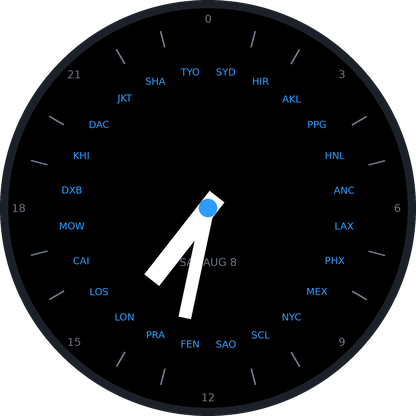
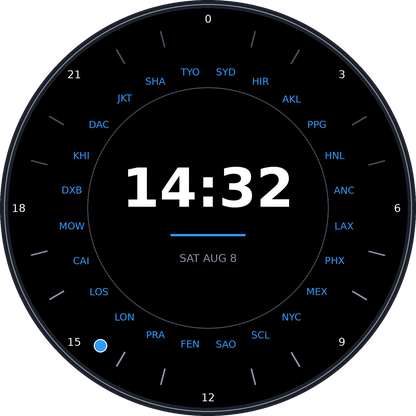
Swap analog hands for a digital center readout, polish the dial
Replace the hour/minute hands with a bold digital HH:MM + date in the
center, framed by a thin sub-dial ring. A small accent "now" marker dot
sits on the hour ring at the current local-time angle, tying the digital
readout back to the worldtimer bezel without drawing anything hand-like.

Added polish: a thin bezel line around the rim, and a dimmer tick color
for night-side hours (18:00-06:00) vs daytime as a rough day/night cue,
via a new per-theme :dim tone in Themes.mc.

diff --git a/ventures/garmin-world-traveler-watchface/README.md b/ventures/garmin-world-traveler-watchface/README.md
@@ -3,8 +3,9 @@
 A worldtimer-bezel watch face, in the style of classic GMT/world-time
 travel watches: a fixed 24-hour ring runs around the rim, and the 24
 major cities of the world — one per standard time zone — sit at whatever
-position on that ring matches their current local hour. Analog hands read
-your own local time off the same ring.
+position on that ring matches their current local hour. Your own local
+time is digital, big and centered, framed by a sub-dial ring; a small
+accent marker on the outer ring ties it back to the world-time bezel.
 
 ![Design mockup](docs/design-mockup.png)
 
@@ -23,15 +24,20 @@ simulator screenshots.)*
   city's *own current local hour* on the fixed ring — so as the day
   progresses, the whole ring of cities visually sweeps around together,
   the same way a real worldtimer watch bezel does.
-- Analog hour + minute hands, pivoting at the center, reading your local
-  time off that same 24-hour scale.
+- Big digital local time + date in the center, respecting the device's
+  12/24-hour preference, framed by a thin sub-dial ring.
+- A small accent "now" marker sitting directly on the hour ring at your
+  current local-time angle — reads the ring without drawing a hand.
+- A thin bezel line around the rim, and night-hours (18:00-06:00) ticks
+  tinted with a dimmer tone than daytime ticks, as a rough day/night cue.
 - Automatic, self-contained DST handling for zones that need it (US, EU,
   Australia, New Zealand) — no network access or bundled timezone database
   needed. Unlike a real mechanical worldtimer (which can only rotate one
   ring uniformly and drifts out of alignment during mixed DST periods),
   each city here is computed independently, so it "hops" a notch on its
   own DST transition day instead of throwing off any other city.
-- Four selectable color themes (Midnight, Aurora, Sand, Mono).
+- Four selectable color themes (Midnight, Aurora, Sand, Mono), each with
+  an accent/muted/dim tone triad.
 - Draws everything programmatically from screen dimensions, so one
   codebase adapts to round, semi-round and rectangular displays without
   per-device layout resources.
@@ -58,9 +64,9 @@ manifest.xml                    App metadata, target device list
 monkey.jungle                   Build configuration
 source/
   WorldTravelerApp.mc            App entry point
-  WorldTravelerView.mc            Radial ring + hands drawing logic
+  WorldTravelerView.mc            Radial ring + digital-center drawing logic
   CityData.mc                    24-zone catalog + timezone/DST math
-  Themes.mc                      Color themes
+  Themes.mc                      Color themes (accent/muted/dim per theme)
 resources/
   drawables/                     Launcher icon
   strings/                       App name + settings labels
@@ -83,12 +89,11 @@ variable — the whole set of labels moves together in the aggregate (all
 correct through individual DST transitions, which a single rotating disc
 cannot represent.
 
-**The hands.** The hour hand reads local time on the *same* 0-24 scale as
-the ring (`angleFor24Hour(hour + minute/60)`), so it always points at
-(roughly) your own city's position in the ring. The minute hand uses an
-ordinary 60-minute scale. Both are drawn as tapered polygons via a
-rotation matrix applied to a template pointing straight up — the standard
-technique for analog hands in Connect IQ (see `drawHand()`).
+**The now-marker.** Local time is read on the *same* 0-24 scale as the
+ring (`angleFor24Hour(hour + minute/60)`) to place a small accent dot
+directly on the hour ring — a halo marker, not a hand, so it stays
+subordinate to the big digital readout in the center while still tying
+the two together visually.
 
 **Timezone math.** Connect IQ devices don't ship a general IANA timezone
 database, so every city's offset is computed by hand: each city stores a
@@ -139,11 +144,12 @@ SDK, which isn't installed in this environment.
    round AMOLED device (e.g. `venu3`) and a round MIP device (e.g.
    `fenix7`) to sanity-check both display types, and check legibility on
    a smaller-screen device (e.g. `venusq`) given the label density.
-5. In the simulator, use the time-travel controls to spot-check: the hour
-   hand should point at roughly "now" on the 24-hour ring, and stepping
-   the simulated date across a DST boundary (e.g. the second Sunday of
-   March) should snap the affected city (e.g. NYC) one tick over without
-   moving any other city.
+5. In the simulator, use the time-travel controls to spot-check: the
+   now-marker dot should sit at roughly "now" on the 24-hour ring, the
+   digital time in the center should match the simulated clock, and
+   stepping the simulated date across a DST boundary (e.g. the second
+   Sunday of March) should snap the affected city (e.g. NYC) one tick over
+   without moving any other city.
 6. Take your Connect IQ Store screenshots directly from the simulator
    (File → Save Screenshot) once the face looks right — those are the
    images that must accompany the store listing, not `docs/design-mockup.png`.
@@ -196,7 +202,8 @@ newer watches (or drop ones you don't want to support).
 
 - Always-on (AOD) support via `onPartialUpdate` for AMOLED devices, with a
   clipped low-power redraw region.
-- A second hand, or a small day/night shading arc behind the city ring.
+- A filled day/night shading arc behind the city ring, instead of just
+  tinted ticks.
 - Tap/menu-button interaction to temporarily highlight one city's label
   (useful when the ring gets crowded).
 - Localized city names for non-English markets.
